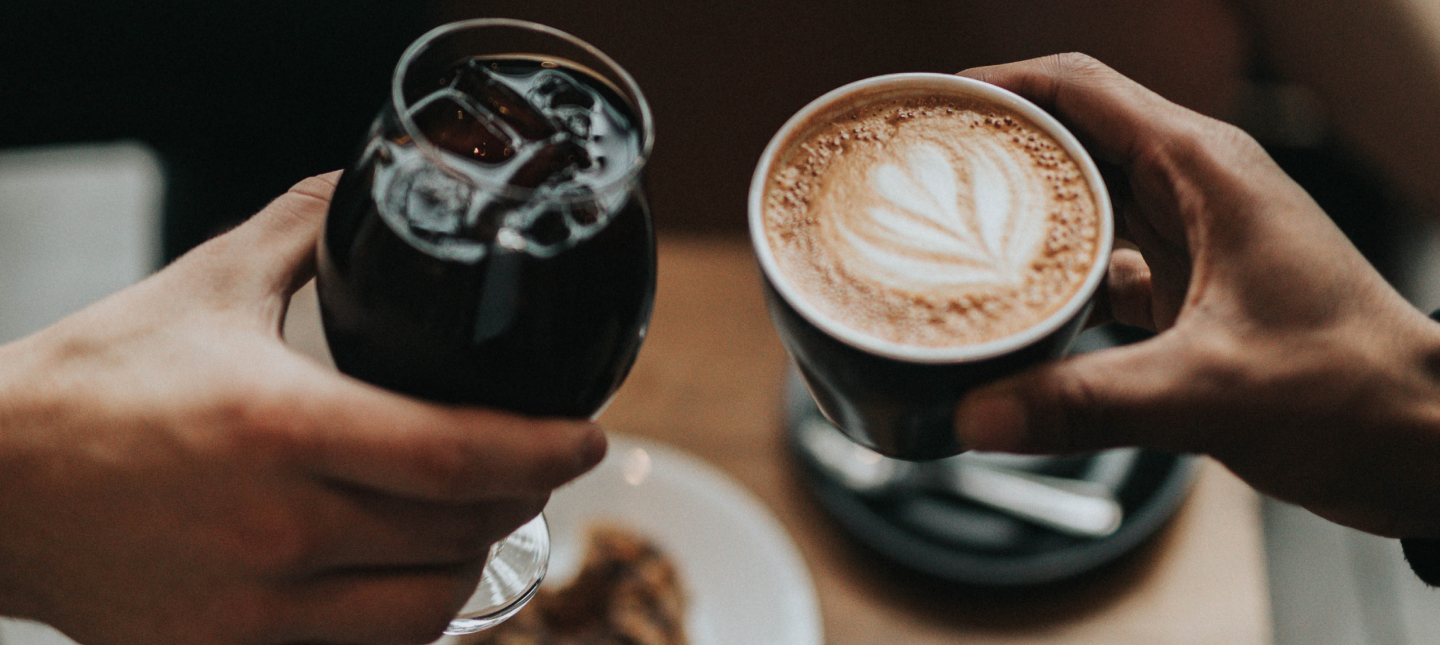
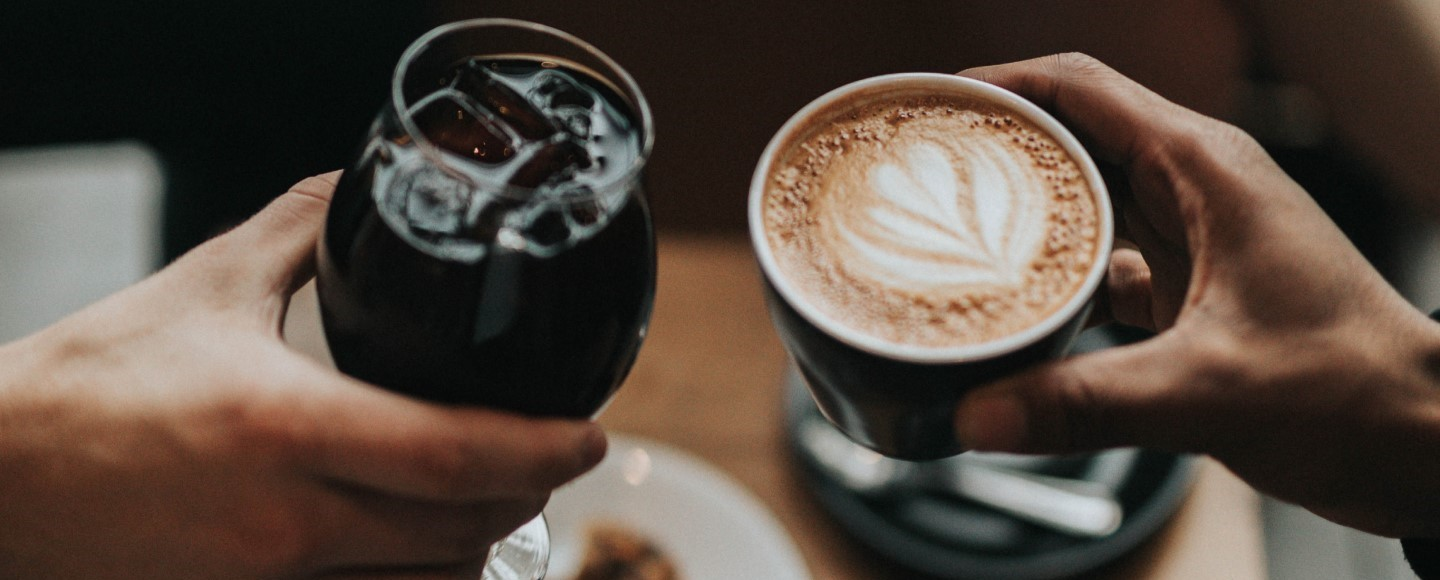
add history page and responsive

diff --git a/src/components/card-history/index.js b/src/components/card-history/index.js
@@ -1,0 +1,52 @@
+import Card from 'react-bootstrap/Card';
+import '../../components/card-history/styles.css/card-history.css';
+import Form from 'react-bootstrap/Form';
+
+function TextExample() {
+  return (
+    <Card
+      className='d-flex flex-wrap align-content-center round'
+      style={{ width: '20rem' }}
+    >
+      <Card.Body>
+        <div className='row'>
+          <div className='col'>
+            <div className='picture-rounded-for-history'>
+              <img
+                src={require('../../assets/images/history-images/veggie tomato mix.jpg')}
+                className='img-fluid img-card-history'
+                alt='background-img'
+              />
+            </div>
+          </div>
+          <div className='col'>
+            <Card.Subtitle className='mb-2 text-dark text-center'>
+              Tomato Mix
+            </Card.Subtitle>
+            <Card.Text className='mb-2 text-dark text-center'>
+              IDR 34.000
+            </Card.Text>
+            <Card.Text className='mb-2 text-dark text-center'>
+              Delivered
+            </Card.Text>
+            <Form>
+              {['checkbox'].map((type) => (
+                <div key={`reverse-${type}`} className='mb-3'>
+                  <Form.Check
+                    reverse
+                    label='1'
+                    name='group1'
+                    type={type}
+                    id={`reverse-${type}-1`}
+                  />
+                </div>
+              ))}
+            </Form>
+          </div>
+        </div>
+      </Card.Body>
+    </Card>
+  );
+}
+
+export default TextExample;

diff --git a/src/pages/history/index.js b/src/pages/history/index.js
@@ -1,0 +1,50 @@
+import MiniHeader from '../../components/mini-header';
+import MiniFooter from '../../components/mini-footer';
+import '../history/styles/history.css';
+import CardHistory from '../../components/card-history';
+
+const History = () => {
+  return (
+    <>
+      <MiniHeader />
+      <div className='history-background'>
+        <img
+          src={require('../../assets/images/payment-images/payment-background.jpg')}
+          className='img-fluid'
+          alt='background-img'
+        />
+      </div>
+      <div className='content-history'>
+        <div className='text-center text-white'>
+          <h2>Let's see what you have bought!</h2>
+          <p>Select item to delete</p>
+          <p className='text-end text-decoration-underline mb-4'>Select all</p>
+        </div>
+        <div className='d-flex flex-wrap align-content-center container'>
+          <div className='p-2 m-2 rounded'>
+            <CardHistory />
+          </div>
+          <div className='p-2 m-2 rounded'>
+            <CardHistory />
+          </div>
+          <div className='p-2 m-2 rounded'>
+            <CardHistory />
+          </div>
+          <div className='p-2 m-2 rounded'>
+            <CardHistory />
+          </div>
+          <div className='p-2 m-2 rounded'>
+            <CardHistory />
+          </div>
+          <div className='p-2 m-2 rounded'>
+            <CardHistory />
+          </div>
+        </div>
+      </div>
+
+      <MiniFooter />
+    </>
+  );
+};
+
+export default History;

diff --git a/src/pages/product-menu/index.js b/src/pages/product-menu/index.js
@@ -1,6 +1,7 @@
 import Header from '../../components/header';
 import CardPromo from '../../components/card-promo';
-import Footer from '../../components/footer';
+// import Footer from '../../components/footer';
+import MiniFooter from '../../components/mini-footer';
 // import ListMenuTabs from './list-menu-tabs';
 import CardProduct from '../../components/card-product';
 import { useEffect, useState } from 'react';
@@ -31,10 +32,13 @@ const ProductMenu = () => {
               </div>
               <div className='col-sm-12 p-1 bg-white text-dark text-center'>
                 <CardPromo />
+                <CardPromo />
+                <CardPromo />
+                <CardPromo />
               </div>
               <div class='d-grid gap-2 p-4 col-10 mx-auto'>
-                <button class='btn btn-warning' type='button'>
-                  Apply Coupon
+                <button class='btn button-yellow ' type='button'>
+                  <h5>Apply Coupon</h5>
                 </button>
               </div>
               <div className='col-sm-12 bg-white text-dark '>
@@ -57,7 +61,7 @@ const ProductMenu = () => {
           </div>
         </div>
       </div>
-      <Footer />
+      <MiniFooter />
     </>
   );
 };

diff --git a/src/App.js b/src/App.js
@@ -3,6 +3,7 @@ import { Routes, Route, BrowserRouter } from 'react-router-dom';
 import HomePage from './pages/home/index';
 import Product from './pages/product-menu/index';
 import Payment from './pages/payment';
+import History from './pages/history';
 import ProductTesting from './pages/product-customer-page/index';
 import SignUp from './pages/signup';
 import Login from './pages/login/index';
@@ -16,6 +17,7 @@ const App = () => {
         <Route path='/' element={<HomePage />} />
         <Route path='product' element={<Product />} />
         <Route path='payment' element={<Payment />} />
+        <Route path='history' element={<History />} />
         <Route path='producttesting' element={<ProductTesting />} />
         <Route path='signup' element={<SignUp />} />
         <Route path='login' element={<Login />} />

diff --git a/src/components/pop-up-ads/index.js b/src/components/pop-up-ads/index.js
@@ -1,0 +1,28 @@
+import Button from 'react-bootstrap/Button';
+import Modal from 'react-bootstrap/Modal';
+
+function PopUpAds() {
+  return (
+    <div
+      className='modal show pop-up-ads'
+      style={{ display: 'block', position: 'initial' }}
+    >
+      <Modal.Dialog>
+        <Modal.Header closeButton>
+          <Modal.Title>Modal title</Modal.Title>
+        </Modal.Header>
+
+        <Modal.Body>
+          <p>Modal body text goes here.</p>
+        </Modal.Body>
+
+        <Modal.Footer>
+          <Button variant='secondary'>Close</Button>
+          <Button variant='primary'>Save changes</Button>
+        </Modal.Footer>
+      </Modal.Dialog>
+    </div>
+  );
+}
+
+export default PopUpAds;

diff --git a/src/pages/home/index.js b/src/pages/home/index.js
@@ -21,15 +21,11 @@ const HomePage = () => {
   return (
     <>
       <Header />
-      <br />
-      <br />
-      <br />
-      <br />
       {/* start content 1 */}
       <div class='row row-cols-1 bg-white'>
         <div class='col'>
           <img
-            src={require('../../assets/images/home-page-images/background.jpg')}
+            src={require('../../assets/images/home-page-images/background-original.jpg')}
             className='img-fluid'
             alt='background-img'
           />

diff --git a/src/components/header/index.js b/src/components/header/index.js
@@ -45,7 +45,10 @@ const Header = () => {
                   </Link>
                 </div>
                 <div className='col p-2 bg-white text-dark'>
-                  <Link className='link-dark text-decoration-none' to='/404'>
+                  <Link
+                    className='link-dark text-decoration-none'
+                    to='/history'
+                  >
                     History
                   </Link>
                 </div>

diff --git a/src/components/pop-up-ads/styles/pop-up-ads.css b/src/components/pop-up-ads/styles/pop-up-ads.css
@@ -1,0 +1,21 @@
+.pop-up-ads {
+  position: absolute;
+  top: 50px;
+  left: 220px;
+  color: white;
+  text-shadow: 1px 1px 2px #000000;
+}
+
+@media (max-width: 768px) {
+  .pop-up-ads {
+    position: absolute;
+    top: 75px;
+    left: 40px;
+    background-color: white;
+    opacity: 0.5;
+    border-radius: 25px;
+    padding: 5px;
+    color: white;
+    text-shadow: 2px 2px 4px #000000;
+  }
+}

diff --git a/src/components/card-promo/styles/card-promo.css b/src/components/card-promo/styles/card-promo.css
@@ -1,10 +1,10 @@
 .card-promo {
   background-color: #88b788;
   border-radius: 10px;
-  margin: 20px 20px 20px 20px;
+  margin: 10px 20px 20px 40px;
   height: 150px;
-  width: 80%;
-  padding: 30px;
+  width: 75%;
+  padding: 10px;
   justify-content: center;
   align-items: center;
   display: flex;

diff --git a/src/pages/history/styles/history.css b/src/pages/history/styles/history.css
@@ -1,0 +1,18 @@
+.content-history {
+  position: absolute;
+  top: 120px;
+  left: 200px;
+}
+
+@media (max-width: 768px) {
+  .content-history {
+    position: absolute;
+    top: 80px;
+    left: 0px;
+  }
+
+  .history-background img {
+    object-fit: cover;
+    height: 400vh;
+  }
+}

diff --git a/src/components/card-history/styles.css/card-history.css b/src/components/card-history/styles.css/card-history.css
@@ -1,0 +1,13 @@
+.picture-rounded-for-history {
+  background-color: white;
+  border-radius: 50%;
+  height: 110px;
+  width: 110px;
+}
+
+.img-card-history {
+  padding: 5px;
+  border-radius: 50%;
+  height: 110px;
+  width: 110px;
+}
